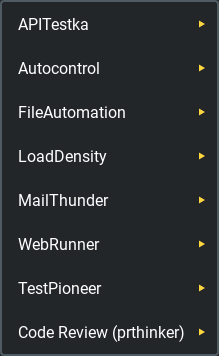
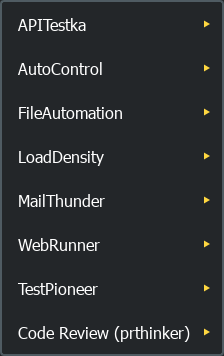
Spell menu names one way and say Tab or Dock on every Tools entry

diff --git a/pybreeze/extend_multi_language/extend_english.py b/pybreeze/extend_multi_language/extend_english.py
@@ -40,17 +40,17 @@ pybreeze_english_word_dict = {
     "apitestka_github_label": "Open APITestka GitHub",
     "apitestka_github_tab_label": "APITestka GitHub",
     "apitestka_create_project_label": "Create APITestka Project",
-    # Autocontrol Menu
-    "autocontrol_menu_label": "Autocontrol",
-    "autocontrol_run_script_label": "Run Autocontrol Script",
-    "autocontrol_run_script_with_send_label": "Run Autocontrol With Send",
-    "autocontrol_run_multi_script_label": "Run Multi Autocontrol Script",
-    "autocontrol_run_multi_script_with_send_label": "Run Multi Autocontrol Script With Send",
-    "autocontrol_doc_label": "Open Autocontrol Doc",
-    "autocontrol_doc_tab_label": "Autocontrol Doc",
-    "autocontrol_github_label": "Open Autocontrol GitHub",
-    "autocontrol_github_tab_label": "Autocontrol GitHub",
-    "autocontrol_create_project_label": "Create Autocontrol Project",
+    # AutoControl Menu
+    "autocontrol_menu_label": "AutoControl",
+    "autocontrol_run_script_label": "Run AutoControl Script",
+    "autocontrol_run_script_with_send_label": "Run AutoControl With Send",
+    "autocontrol_run_multi_script_label": "Run Multi AutoControl Script",
+    "autocontrol_run_multi_script_with_send_label": "Run Multi AutoControl Script With Send",
+    "autocontrol_doc_label": "Open AutoControl Doc",
+    "autocontrol_doc_tab_label": "AutoControl Doc",
+    "autocontrol_github_label": "Open AutoControl GitHub",
+    "autocontrol_github_tab_label": "AutoControl GitHub",
+    "autocontrol_create_project_label": "Create AutoControl Project",
     "autocontrol_record_menu_label": "Record",
     "autocontrol_record_start_label": "Record Start",
     "autocontrol_record_stop_label": "Record Stop",
@@ -112,12 +112,12 @@ pybreeze_english_word_dict = {
     "test_pioneer_label": "TestPioneer",
     "test_pioneer_github_label": "Open TestPioneer GitHub",
     "test_pioneer_github_tab_label": "TestPioneer GitHub",
-    "test_pioneer_create_template_label": "Create TestPioneer Yaml template",
+    "test_pioneer_create_template_label": "Create TestPioneer YAML Template",
     "test_pioneer_template_exists": "{path} already exists. Replace it with a fresh template and lose its content?",
     "test_pioneer_template_failed": "The template could not be created at {path}: {error}",
     "test_pioneer_template_created": "Template created: {path}",
-    "test_pioneer_run_yaml": "Execute Test Pioneer Yaml",
-    "test_pioneer_not_choose_yaml": "Please choose a Yaml file",
+    "test_pioneer_run_yaml": "Run TestPioneer YAML",
+    "test_pioneer_not_choose_yaml": "Please choose a YAML file",
     # prthinker code review
     "prthinker_menu_label": "Code Review (prthinker)",
     "prthinker_review_current_file_label": "Review the current file",
@@ -283,7 +283,7 @@ pybreeze_english_word_dict = {
     "ssh_login_widget_dialog_title_choose_key": "Choose a private key",
     "ssh_login_widget_status_disconnected": "Disconnected",
     # AI Code Review GUI
-    "ai_code_review_gui_window_title": "AI Code-Review Client",
+    "ai_code_review_gui_window_title": "AI Code Review Client",
     "ai_code_review_gui_label_url": "URL:",
     "ai_code_review_gui_label_method": "Method:",
     "ai_code_review_gui_label_code_to_send": "Code to Send:",
@@ -334,29 +334,30 @@ pybreeze_english_word_dict = {
     "extend_tools_menu_tools_ai_menu": "AI",
     "extend_tools_menu_ssh_client_tab_action": "SSH Client Tab",
     "extend_tools_menu_ssh_client_tab_label": "SSH Client",
-    "extend_tools_menu_ai_code_review_tab_action": "AI Code-Review Tab",
-    "extend_tools_menu_ai_code_review_tab_label": "AI Code-Review",
-    "extend_tools_menu_cot_prompt_editor_tab_action": _COT_PROMPT_EDITOR,
+    "extend_tools_menu_ai_code_review_tab_action": "AI Code Review Tab",
+    "extend_tools_menu_ai_code_review_tab_label": "AI Code Review",
+    "extend_tools_menu_cot_prompt_editor_tab_action": _COT_PROMPT_EDITOR + " Tab",
     "extend_tools_menu_cot_prompt_editor_tab_label": _COT_PROMPT_EDITOR,
     "extend_tools_menu_cot_code_review_tab_action": "CoT Code Review Tab",
     "extend_tools_menu_cot_code_review_tab_label": "CoT Code Review",
-    "extend_tools_menu_skill_prompt_editor_tab_action": _SKILL_PROMPT_EDITOR,
+    "extend_tools_menu_skill_prompt_editor_tab_action": _SKILL_PROMPT_EDITOR + " Tab",
     "extend_tools_menu_skill_prompt_editor_tab_label": _SKILL_PROMPT_EDITOR,
-    "extend_tools_menu_skill_prompt_send_tab_label": "Skill Send GUI",
+    "extend_tools_menu_skill_prompt_send_tab_label": "Skill Send",
+    "extend_tools_menu_skill_prompt_send_tab_action": "Skill Send Tab",
     "extend_tools_menu_dock_ssh_menu": "SSH",
     "extend_tools_menu_dock_ai_menu": "AI",
     "extend_tools_menu_ssh_client_dock_action": "SSH Client Dock",
-    "extend_tools_menu_ai_code_review_dock_action": "AI Code-Review Dock",
+    "extend_tools_menu_ai_code_review_dock_action": "AI Code Review Dock",
     "extend_tools_menu_cot_prompt_editor_dock_action": "CoT Prompt Editor Dock",
     "extend_tools_menu_cot_code_review_dock_action": "CoT Code Review Dock",
     "extend_tools_menu_cot_code_review_dock_title": "CoT Code Review",
     "extend_tools_menu_skill_prompt_editor_dock_action": "Skill Prompt Editor Dock",
     "extend_tools_menu_ssh_client_dock_title": "SSH Client",
-    "extend_tools_menu_ai_code_review_dock_title": "AI Code-Review",
+    "extend_tools_menu_ai_code_review_dock_title": "AI Code Review",
     "extend_tools_menu_cot_prompt_editor_dock_title": "CoT Prompt Editor",
     "extend_tools_menu_skill_prompt_editor_dock_title": "Skill Prompt Editor",
-    "extend_tools_menu_skill_prompt_send_dock_action": "Skill Prompt Dock",
-    "extend_tools_menu_skill_prompt_send_dock_title": "Skill Send GUI",
+    "extend_tools_menu_skill_prompt_send_dock_action": "Skill Send Dock",
+    "extend_tools_menu_skill_prompt_send_dock_title": "Skill Send",
     # CoT code-review GUI
     "cot_gui_window_title": "Prompt Sender UI",
     "cot_gui_label_api_url": "API URL:",

diff --git a/pybreeze/extend_multi_language/extend_traditional_chinese.py b/pybreeze/extend_multi_language/extend_traditional_chinese.py
@@ -35,17 +35,17 @@ pybreeze_traditional_chinese_word_dict = {
     "apitestka_github_label": "開啟 APITestka GitHub",
     "apitestka_github_tab_label": "APITestka GitHub",
     "apitestka_create_project_label": "建立 APITestka 專案",
-    # Autocontrol Menu
-    "autocontrol_menu_label": "Autocontrol",
-    "autocontrol_run_script_label": "執行 Autocontrol 腳本",
-    "autocontrol_run_script_with_send_label": "執行 Autocontrol 腳本並寄信",
-    "autocontrol_run_multi_script_label": "執行多個 Autocontrol 腳本",
-    "autocontrol_run_multi_script_with_send_label": "執行多個 Autocontrol 腳本並寄信",
-    "autocontrol_doc_label": "開啟 Autocontrol 文件",
-    "autocontrol_doc_tab_label": "Autocontrol 文件",
-    "autocontrol_github_label": "開啟 Autocontrol GitHub",
-    "autocontrol_github_tab_label": "Autocontrol GitHub",
-    "autocontrol_create_project_label": "建立 Autocontrol 專案",
+    # AutoControl Menu
+    "autocontrol_menu_label": "AutoControl",
+    "autocontrol_run_script_label": "執行 AutoControl 腳本",
+    "autocontrol_run_script_with_send_label": "執行 AutoControl 腳本並寄信",
+    "autocontrol_run_multi_script_label": "執行多個 AutoControl 腳本",
+    "autocontrol_run_multi_script_with_send_label": "執行多個 AutoControl 腳本並寄信",
+    "autocontrol_doc_label": "開啟 AutoControl 文件",
+    "autocontrol_doc_tab_label": "AutoControl 文件",
+    "autocontrol_github_label": "開啟 AutoControl GitHub",
+    "autocontrol_github_tab_label": "AutoControl GitHub",
+    "autocontrol_create_project_label": "建立 AutoControl 專案",
     "autocontrol_record_menu_label": "錄製",
     "autocontrol_record_start_label": "開始錄製",
     "autocontrol_record_stop_label": "停止錄製",
@@ -107,12 +107,12 @@ pybreeze_traditional_chinese_word_dict = {
     "test_pioneer_label": "TestPioneer",
     "test_pioneer_github_label": "開啟 TestPioneer GitHub",
     "test_pioneer_github_tab_label": "TestPioneer GitHub",
-    "test_pioneer_create_template_label": "建立 TestPioneer Yaml 範本",
+    "test_pioneer_create_template_label": "建立 TestPioneer YAML 範本",
     "test_pioneer_template_exists": "{path} 已經存在。要用新的範本取代，並捨棄它目前的內容嗎？",
     "test_pioneer_template_failed": "無法在 {path} 建立範本：{error}",
     "test_pioneer_template_created": "已建立範本：{path}",
-    "test_pioneer_run_yaml": "執行 Test Pioneer Yaml",
-    "test_pioneer_not_choose_yaml": "請選擇 Yaml 檔案",
+    "test_pioneer_run_yaml": "執行 TestPioneer YAML",
+    "test_pioneer_not_choose_yaml": "請選擇 YAML 檔案",
     # prthinker code review
     "prthinker_menu_label": "程式碼審查（prthinker）",
     "prthinker_review_current_file_label": "審查目前的檔案",
@@ -326,13 +326,14 @@ pybreeze_traditional_chinese_word_dict = {
     "extend_tools_menu_ssh_client_tab_label": "SSH 用戶端",
     "extend_tools_menu_ai_code_review_tab_action": "AI 程式碼審查分頁",
     "extend_tools_menu_ai_code_review_tab_label": "AI 程式碼審查",
-    "extend_tools_menu_cot_prompt_editor_tab_action": _COT_PROMPT_EDITOR,
+    "extend_tools_menu_cot_prompt_editor_tab_action": _COT_PROMPT_EDITOR + "分頁",
     "extend_tools_menu_cot_prompt_editor_tab_label": _COT_PROMPT_EDITOR,
     "extend_tools_menu_cot_code_review_tab_action": "CoT 程式碼審查分頁",
     "extend_tools_menu_cot_code_review_tab_label": "CoT 程式碼審查",
-    "extend_tools_menu_skill_prompt_editor_tab_action": _SKILL_PROMPT_EDITOR,
+    "extend_tools_menu_skill_prompt_editor_tab_action": _SKILL_PROMPT_EDITOR + "分頁",
     "extend_tools_menu_skill_prompt_editor_tab_label": _SKILL_PROMPT_EDITOR,
-    "extend_tools_menu_skill_prompt_send_tab_label": "Skill 提示詞傳送 GUI",
+    "extend_tools_menu_skill_prompt_send_tab_label": "Skill 提示詞傳送",
+    "extend_tools_menu_skill_prompt_send_tab_action": "Skill 提示詞傳送分頁",
     "extend_tools_menu_dock_ssh_menu": "SSH",
     "extend_tools_menu_dock_ai_menu": "AI",
     "extend_tools_menu_ssh_client_dock_action": "SSH 用戶端停駐窗格",
@@ -345,8 +346,8 @@ pybreeze_traditional_chinese_word_dict = {
     "extend_tools_menu_ai_code_review_dock_title": "AI 程式碼審查",
     "extend_tools_menu_cot_prompt_editor_dock_title": _COT_PROMPT_EDITOR,
     "extend_tools_menu_skill_prompt_editor_dock_title": _SKILL_PROMPT_EDITOR,
-    "extend_tools_menu_skill_prompt_send_dock_action": "Skill Prompt 傳送停駐窗格",
-    "extend_tools_menu_skill_prompt_send_dock_title": "Skill 提示詞傳送 GUI",
+    "extend_tools_menu_skill_prompt_send_dock_action": "Skill 提示詞傳送停駐窗格",
+    "extend_tools_menu_skill_prompt_send_dock_title": "Skill 提示詞傳送",
     # CoT code-review GUI
     "cot_gui_window_title": "Prompt 傳送介面",
     "cot_gui_label_api_url": "API URL：",

diff --git a/test/test_utils/test_language_parity.py b/test/test_utils/test_language_parity.py
@@ -116,6 +116,32 @@ class TestLabelsAreTold:
             assert EN[dock] == EN[tab]
             assert ZH[dock] == ZH[tab]
 
+    def test_every_tools_entry_says_whether_it_opens_a_tab_or_a_dock(self):
+        # Tools > AI read "CoT Prompt Editor", "Skill Send GUI" beside "CoT Code Review Tab"
+        from pybreeze.pybreeze_ui.menu.tools.tools_menu import _DOCK_ACTIONS, _TAB_ACTIONS
+
+        for *_start, action_key, _label_key in _TAB_ACTIONS:
+            assert EN[action_key].endswith(" Tab") and ZH[action_key].endswith("分頁"), action_key
+        for *_start, action_key in _DOCK_ACTIONS:
+            assert EN[action_key].endswith(" Dock") and ZH[action_key].endswith("停駐窗格"), action_key
+
+    def test_a_dock_is_titled_like_the_tab_of_the_same_tool(self):
+        # "AI Code-Review" and "Skill Send GUI" as titles; the Skill Send dock's
+        # menu entry read "Skill Prompt Dock"
+        for tool in ("ai_code_review", "cot_code_review", "cot_prompt_editor", "skill_prompt_editor",
+                     "skill_prompt_send"):
+            for words in (EN, ZH):
+                tab = words[f"extend_tools_menu_{tool}_tab_label"]
+                assert words[f"extend_tools_menu_{tool}_dock_title"] == tab
+                assert words[f"extend_tools_menu_{tool}_dock_action"].startswith(tab), tool
+
+    def test_a_name_is_spelled_one_way(self):
+        # "Autocontrol" beside "AutoControl GUI" and "Install AutoControl";
+        # "Test Pioneer" beside "TestPioneer"; "Yaml" for YAML
+        misspelt = {key: value for words in (EN, ZH) for key, value in words.items()
+                    if re.search(r"Autocontrol|Test Pioneer|Yaml|Code-Review", str(value))}
+        assert misspelt == {}
+
     def test_the_same_action_reads_the_same_on_every_tab(self):
         # Header Analyzer said "Open token in JWT decoder", Response Inspector
         # "Open JWT in decoder", for the same hand-over
@@ -162,7 +188,7 @@ class TestLabelsAreTold:
 
     def test_no_label_is_in_capitals(self):
         # Every automation menu's Help submenu read "HELP", beside JEditor's "Help" menu
-        acronyms = {"HTTP", "JSON", "MIME", "SFTP"}
+        acronyms = {"HTTP", "JSON", "MIME", "SFTP", "YAML"}
         shouted = {key: text for key, text in EN.items() if key.endswith("_label")
                    for word in re.findall(r"\b[A-Z]{4,}\b", text) if word not in acronyms}
         assert shouted == {}

diff --git a/pybreeze/pybreeze_ui/menu/tools/tools_menu.py b/pybreeze/pybreeze_ui/menu/tools/tools_menu.py
@@ -107,7 +107,7 @@ _TAB_ACTIONS: tuple[tuple[str, str, str, str, str], ...] = (
      "extend_tools_menu_skill_prompt_editor_tab_action",
      "extend_tools_menu_skill_prompt_editor_tab_label"),
     ("SkillSendGUI", "tools_ai_skill_send_action", "tools_ai_menu",
-     "extend_tools_menu_skill_prompt_send_tab_label",
+     "extend_tools_menu_skill_prompt_send_tab_action",
      "extend_tools_menu_skill_prompt_send_tab_label"),
     ("DiagramEditor", "tools_diagram_editor_action", "tools_menu",
      "extend_tools_menu_diagram_editor_tab_action", "extend_tools_menu_diagram_editor_tab_label"),

diff --git a/test/test_utils/test_dock_menu.py b/test/test_utils/test_dock_menu.py
@@ -12,7 +12,7 @@ from PySide6.QtWidgets import QApplication, QMenu
 from pybreeze.extend_multi_language.update_language_dict import update_language_dict
 from pybreeze.pybreeze_ui.menu.tools.tools_menu import extend_dock_menu
 
-_AI_DOCKS = 5  # AI Code-Review, CoT Prompt Editor, CoT Code Review, Skill Prompt Editor, Skill Send
+_AI_DOCKS = 5  # AI Code Review, CoT Prompt Editor, CoT Code Review, Skill Prompt Editor, Skill Send
 
 
 @pytest.fixture(scope="module")

diff --git a/docs/updates/2026-09-c.md b/docs/updates/2026-09-c.md
@@ -187,3 +187,13 @@ Continues [2026-09-b.md](2026-09-b.md), which passed the batch size limit. Index
 - **Result / numbers**: 2475 tests in 138 files. `ruff check` clean.
 - **Files**: `pybreeze/pybreeze_ui/menu/tools/tools_menu.py`, `test/test_utils/test_started_menus.py`, `test/test_utils/test_dock_menu.py`, `architecture.md`, `architecture_explore.md`
 - **Open items**: none.
+
+## U-20260925-21 · 2026-09-25 · Menu names spelled one way, and Tools entries that say Tab or Dock · #fix #menu #i18n #readme
+
+- **What**: listing every menu entry of the started IDE found names spelled two ways and entries that did not say what they open: the Automation menu wrote "Autocontrol" (Run Autocontrol Script, Open Autocontrol Doc, ...) where Install and the GUI entry wrote "AutoControl", as the README does; TestPioneer's entries read "Create TestPioneer Yaml template" and "Execute Test Pioneer Yaml" (Execute where every other menu says Run, and "Yaml"); Tools ▸ AI read "AI Code-Review Tab", "CoT Prompt Editor", "CoT Code Review Tab", "Skill Prompt Editor", "Skill Send GUI", where every other Tools entry ends in Tab; the Skill Send dock's entry read "Skill Prompt Dock" and its title "Skill Send GUI" (Traditional Chinese: Skill Prompt 傳送停駐窗格, Skill 提示詞傳送 GUI).
+- **Fix**: AutoControl throughout, in both languages; "Create TestPioneer YAML Template" / "Run TestPioneer YAML" (建立 TestPioneer YAML 範本 / 執行 TestPioneer YAML) and "Please choose a YAML file"; "AI Code Review"; every Tools ▸ AI entry ends in Tab (分頁); Skill Send's tab and dock are "Skill Send" (Skill 提示詞傳送), its menu entries "Skill Send Tab" and "Skill Send Dock" (Skill 提示詞傳送分頁／停駐窗格). Skill Send's Tools entry had used its tab title as its label; it has a key of its own, `extend_tools_menu_skill_prompt_send_tab_action`.
+- **Tests**: in `test_language_parity.py` (`TestLabelsAreTold`), `test_every_tools_entry_says_whether_it_opens_a_tab_or_a_dock` (every `_TAB_ACTIONS` entry ends in Tab / 分頁, every `_DOCK_ACTIONS` one in Dock / 停駐窗格), `test_a_dock_is_titled_like_the_tab_of_the_same_tool` and `test_a_name_is_spelled_one_way`; all three failed before the change. `test_no_label_is_in_capitals` counts YAML among the acronyms. With the menu and TestPioneer tests, 51 pass.
+- **Result / numbers**: 2478 tests in 138 files. `ruff check` clean.
+- **Docs**: `images/menu_automation.png` redone from the started IDE under dark_amber (AutoControl); `architecture_explore.md` (test count).
+- **Files**: `pybreeze/extend_multi_language/extend_english.py`, `pybreeze/extend_multi_language/extend_traditional_chinese.py`, `pybreeze/pybreeze_ui/menu/tools/tools_menu.py`, `test/test_utils/test_language_parity.py`, `test/test_utils/test_dock_menu.py`, `images/menu_automation.png`, `architecture_explore.md`
+- **Open items**: none.

diff --git a/docs/updates/README.md b/docs/updates/README.md
@@ -58,6 +58,7 @@ In the same commit: delete the item from `progress.md`, add a `#done` entry here
 
 | ID | Date | Title | Tags | Batch |
 |---|---|---|---|---|
+| U-20260925-21 | 2026-09-25 | Menu names spelled one way, and Tools entries that say Tab or Dock | #fix #menu #i18n #readme | [2026-09-c](2026-09-c.md) |
 | U-20260925-20 | 2026-09-25 | One AI submenu in the Dock menu | #fix #menu #jeditor | [2026-09-c](2026-09-c.md) |
 | U-20260925-19 | 2026-09-25 | One space after the SSH terminal's [Error] | #fix #ssh #i18n | [2026-09-c](2026-09-c.md) |
 | U-20260925-18 | 2026-09-25 | Regex and timestamp results worded in the IDE's language | #fix #tools #i18n | [2026-09-c](2026-09-c.md) |
@@ -423,4 +424,4 @@ In the same commit: delete the item from `progress.md`, add a `#done` entry here
 |---|---|---:|
 | [2026-09.md](2026-09.md) | 2026-09 | 218 |
 | [2026-09-b.md](2026-09-b.md) | 2026-09 | 120 |
-| [2026-09-c.md](2026-09-c.md) | 2026-09 | 20 |
+| [2026-09-c.md](2026-09-c.md) | 2026-09 | 21 |
